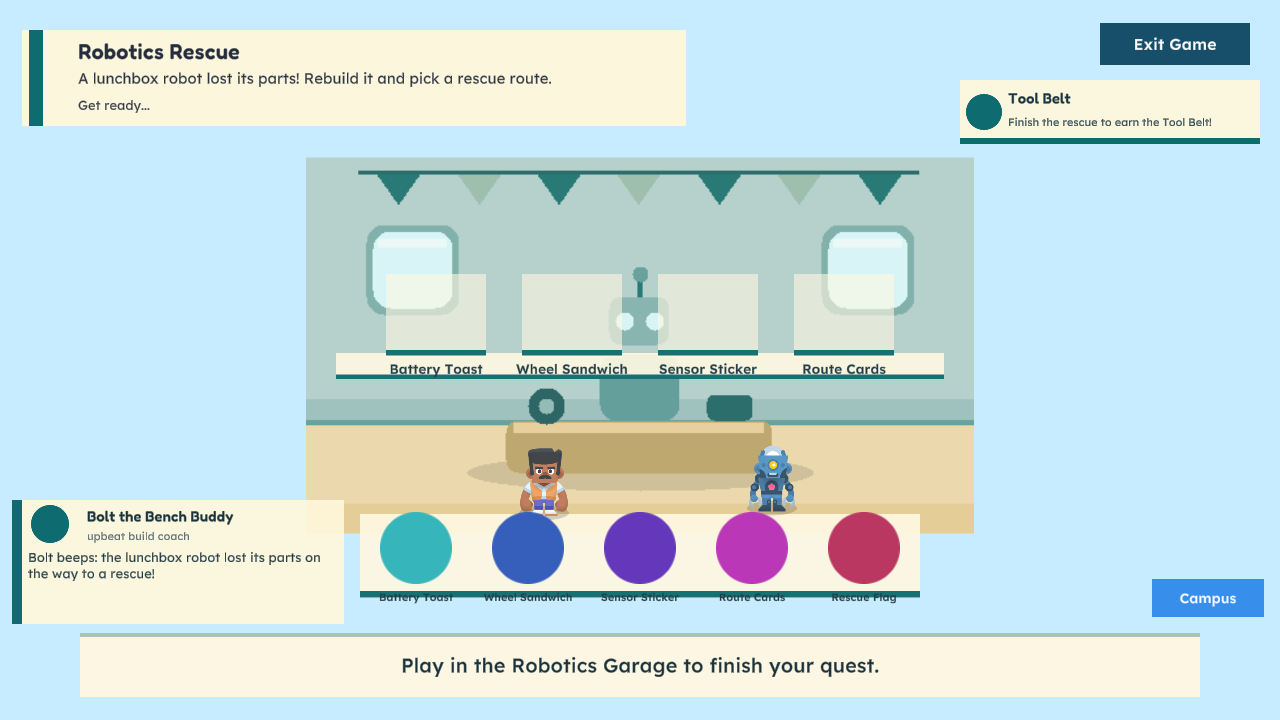
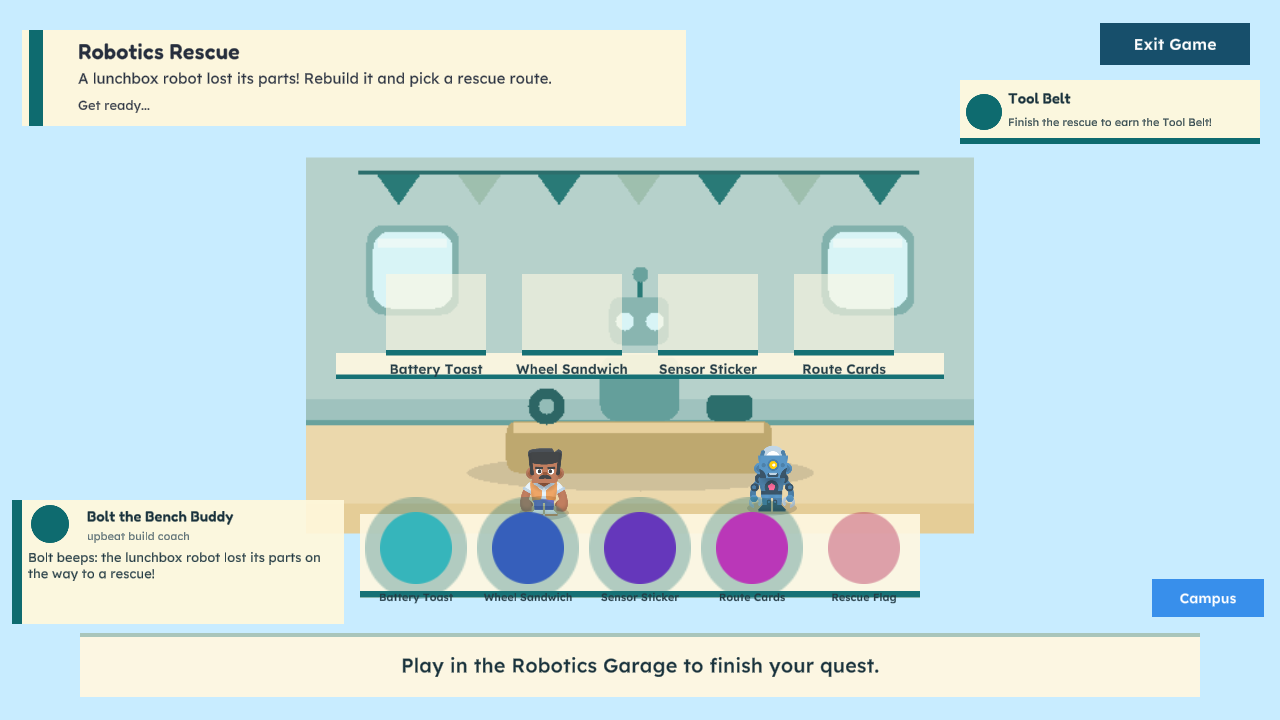
@ fix(stations): mark required toys, fade optional pokes (design review #2)
Players reported games "do not end when all the toys are used." Root cause:
each tray mixes chain-role toys (CoreTask/Clue/Meter, which drive the
"X/N toys placed" completion counter) with reaction-only toys (Helper/
Wildcard/Reaction/Bonus) that never advance it — and every toy was drawn
identically, so players dragged the decoys, saw no progress, and assumed the
game was stuck.

PartyStationRenderer.DecoratePlayfield now draws a soft accent halo behind the
task toys and fades the optional pokes to 45% alpha, so the actionable set
reads at a glance. Presentation only — no rules, scoring, or seed-contract
change; the halo is parented to the piece so route teardown cleans it up.

Verified: robotics (4 task + faded Rescue Flag), kitchen (4 task + faded
Kindness Swap), vet/green-city (all required, all haloed). EditMode 237/237,
PlayMode 229/229.

@

Changed region(s): [[0.2812, 0.6722, 0.7188, 0.825]]

diff --git a/Assets/_CareerQuest/Scripts/Activities/PartyStations/PartyStationRenderer.cs b/Assets/_CareerQuest/Scripts/Activities/PartyStations/PartyStationRenderer.cs
@@ -26,6 +26,10 @@ namespace CareerQuest
         public const string ZonePadName = "StationZonePad";
         public const string ZoneLabelName = "StationZoneLabel";
         public const string TokenLabelName = "ToyTokenLabel";
+        public const string TaskRingName = "ToyTaskRing";
+
+        /// <summary>Optional poke-toys render at this alpha so the actionable set stands out.</summary>
+        public const float OptionalToyAlpha = 0.45f;
 
         public const float TrayY = -2.35f;
         public const float TargetY = 0.55f;
@@ -142,10 +146,42 @@ namespace CareerQuest
                     continue;
                 }
 
+                // Clarity (design review #2): the quest completes on the
+                // chain-role toys (CoreTask/Clue/Meter); reaction-only toys
+                // (Helper/Wildcard/Reaction/Bonus) are optional pokes that never
+                // advance the "X/N toys placed" counter. With every toy drawn
+                // identically, players drag the decoys, see no progress, and
+                // think the game won't end. Mark the task toys with an accent
+                // halo and fade the optional pokes so the actionable set reads
+                // at a glance. Presentation only — no rules/scoring change.
+                var isTaskToy = definition.IsChainRole;
+
                 var renderer = piece.GetComponent<SpriteRenderer>();
                 if (renderer != null)
                 {
-                    renderer.color = TokenColorFor(accent, index);
+                    var color = TokenColorFor(accent, index);
+                    if (!isTaskToy)
+                    {
+                        color.a *= OptionalToyAlpha;
+                    }
+
+                    renderer.color = color;
+                }
+
+                if (isTaskToy)
+                {
+                    // Soft accent disc behind the toy (one sort below the piece)
+                    // so required toys read as "do these" without changing the
+                    // piece geometry or its drag hit area.
+                    var halo = new GameObject(TaskRingName, typeof(SpriteRenderer));
+                    halo.transform.SetParent(piece.transform, false);
+                    halo.transform.localScale = new Vector3(1.42f, 1.42f, 1f);
+                    var haloRenderer = halo.GetComponent<SpriteRenderer>();
+                    haloRenderer.sprite = CampusWorldSprites.Circle;
+                    var haloColor = accent;
+                    haloColor.a = 0.32f;
+                    haloRenderer.color = haloColor;
+                    haloRenderer.sortingOrder = ToyInteractionKit.PieceSortingOrder - 1;
                 }
 
                 AddWorldLabel(piece.transform, TokenLabelName, definition.DisplayName, new Vector3(0f, -0.68f, 0f), 1.5f, ToyInteractionKit.PieceSortingOrder + 2);
